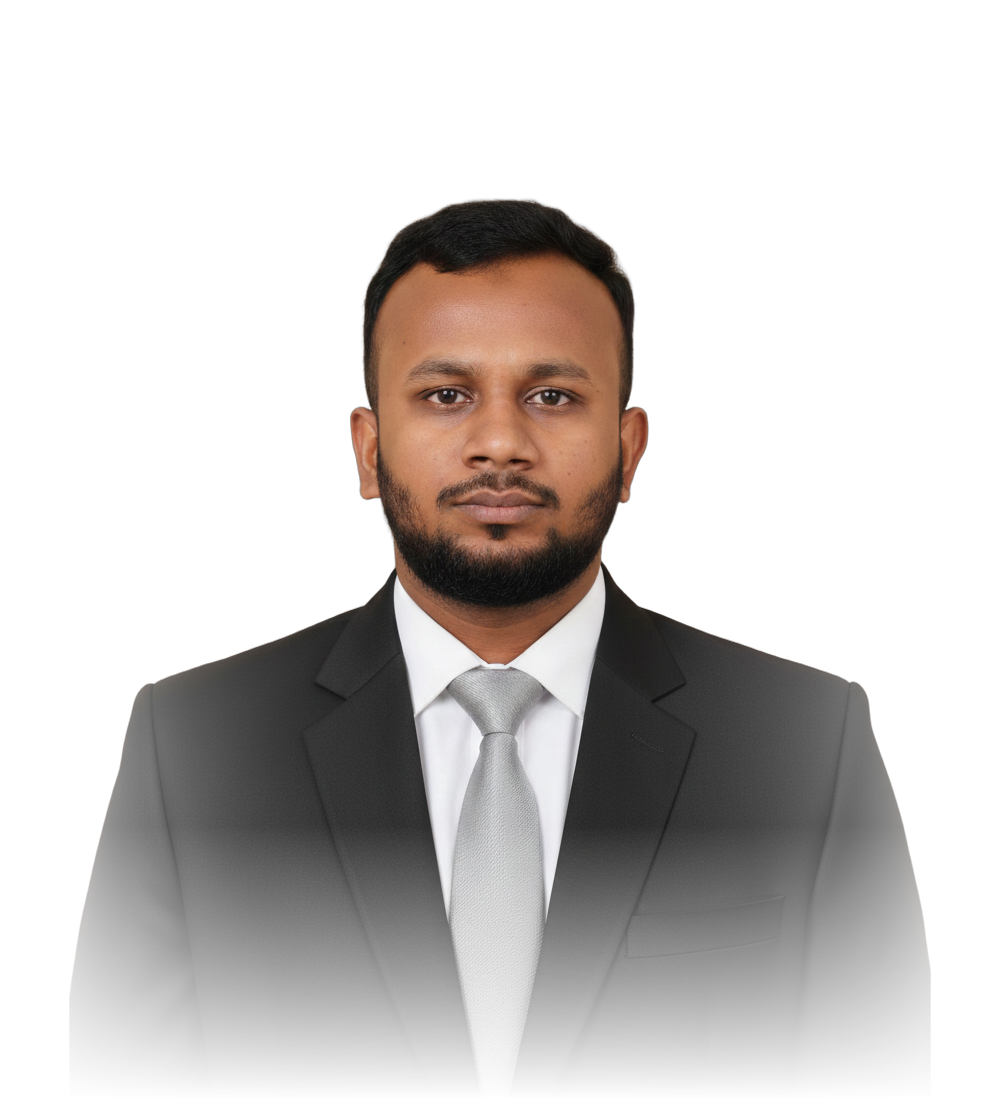
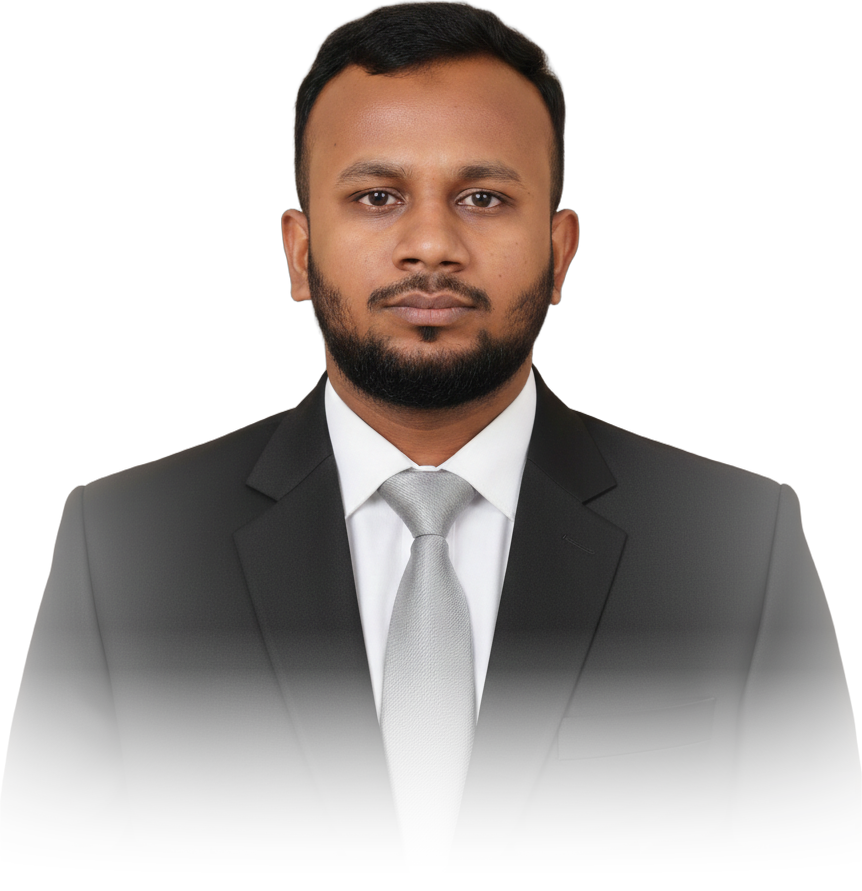
feat: make portrait large and free-standing without bounding boxes, perfect studio fade on dark background

diff --git a/frontend/src/components/Hero.jsx b/frontend/src/components/Hero.jsx
@@ -7,9 +7,6 @@ import {
     FaInstagram,
     FaArrowRight,
     FaDownload,
-    FaShieldAlt,
-    FaCode,
-    FaCheckCircle,
 } from 'react-icons/fa';
 import { getSection } from '../utils/portfolioData';
 import myImage from '../assets/mahabub.png';
@@ -25,30 +22,32 @@ const staggerContainer = {
 };
 
 const fadeUp = {
-    hidden: { opacity: 0, y: 22 },
+    hidden: { opacity: 0, y: 20 },
     show: { opacity: 1, y: 0, transition: { duration: 0.6, ease: [0.22, 1, 0.36, 1] } },
 };
 
 const scaleIn = {
-    hidden: { opacity: 0, scale: 0.95 },
+    hidden: { opacity: 0, scale: 0.94 },
     show: { opacity: 1, scale: 1, transition: { duration: 0.7, ease: [0.22, 1, 0.36, 1] } },
 };
 
 function Hero({ darkMode }) {
     const heroData = getSection('hero');
 
-    // 3D Parallax Tilt Effect for the Portrait
-    const cardRef = useRef(null);
+    // Subtle 3D Parallax Tilt for the Portrait
+    const containerRef = useRef(null);
     const mouseX = useMotionValue(0);
     const mouseY = useMotionValue(0);
 
-    const springConfig = { damping: 25, stiffness: 200 };
-    const rotateX = useSpring(useTransform(mouseY, [-0.5, 0.5], [8, -8]), springConfig);
-    const rotateY = useSpring(useTransform(mouseX, [-0.5, 0.5], [-8, 8]), springConfig);
+    const springConfig = { damping: 28, stiffness: 180 };
+    const rotateX = useSpring(useTransform(mouseY, [-0.5, 0.5], [6, -6]), springConfig);
+    const rotateY = useSpring(useTransform(mouseX, [-0.5, 0.5], [-6, 6]), springConfig);
+    const moveX = useSpring(useTransform(mouseX, [-0.5, 0.5], [-12, 12]), springConfig);
+    const moveY = useSpring(useTransform(mouseY, [-0.5, 0.5], [-12, 12]), springConfig);
 
     const handleMouseMove = (e) => {
-        if (!cardRef.current) return;
-        const rect = cardRef.current.getBoundingClientRect();
+        if (!containerRef.current) return;
+        const rect = containerRef.current.getBoundingClientRect();
         const width = rect.width;
         const height = rect.height;
         const x = (e.clientX - rect.left) / width - 0.5;
@@ -121,83 +120,57 @@ function Hero({ darkMode }) {
     return (
         <section
             id="home"
-            className="relative min-h-[92vh] lg:min-h-screen flex items-center pt-28 sm:pt-32 pb-16 sm:pb-24 px-4 sm:px-8 md:px-12 lg:px-16 overflow-hidden bg-transparent"
+            className="relative min-h-[94vh] lg:min-h-screen flex items-center pt-24 sm:pt-28 pb-12 sm:pb-20 px-4 sm:px-8 md:px-12 lg:px-16 overflow-hidden bg-transparent"
         >
-            {/* ── Soft Cinematic Ambient Lighting (Low-Key Luxury) ── */}
-            <div className="absolute top-[20%] left-[5%] w-[450px] h-[450px] rounded-full bg-rose-500/[0.03] blur-[150px] pointer-events-none" />
-            <div className="absolute bottom-[20%] right-[10%] w-[500px] h-[500px] rounded-full bg-slate-700/[0.04] blur-[160px] pointer-events-none" />
+            {/* ── Soft Ambient Studio Backlight ── */}
+            <div className="absolute top-[20%] left-[8%] w-[480px] h-[480px] rounded-full bg-rose-500/[0.035] blur-[140px] pointer-events-none" />
+            <div className="absolute bottom-[20%] right-[12%] w-[500px] h-[500px] rounded-full bg-slate-800/[0.04] blur-[150px] pointer-events-none" />
 
             {/* ── Main Container ── */}
             <div className="container mx-auto max-w-7xl relative z-10">
-                <div className="grid grid-cols-1 lg:grid-cols-12 gap-10 lg:gap-14 items-center">
+                <div className="grid grid-cols-1 lg:grid-cols-12 gap-8 lg:gap-12 items-center">
 
                     {/* ════════════════════════════════════════════
-                        LEFT COLUMN: Studio Portrait with 3D Depth
-                        (Matching the Matt Cannon Reference Layout)
+                        LEFT COLUMN: Large Free-Standing Studio Portrait
+                        (Seamless Cutout Standing Directly on Canvas)
                         ════════════════════════════════════════════ */}
                     <motion.div
                         variants={scaleIn}
                         initial="hidden"
                         animate="show"
-                        className="lg:col-span-6 flex justify-center lg:justify-start items-center"
+                        className="lg:col-span-6 flex justify-center items-end relative min-h-[440px] sm:min-h-[500px] lg:min-h-[580px]"
                     >
+                        {/* 3D Motion Container */}
                         <motion.div
-                            ref={cardRef}
+                            ref={containerRef}
                             onMouseMove={handleMouseMove}
                             onMouseLeave={handleMouseLeave}
                             style={{
                                 rotateX,
                                 rotateY,
+                                x: moveX,
+                                y: moveY,
                                 transformStyle: 'preserve-3d',
                             }}
-                            className="relative w-full max-w-[440px] sm:max-w-[480px] lg:max-w-[500px] group cursor-pointer"
+                            className="relative w-full max-w-[460px] sm:max-w-[500px] lg:max-w-[540px] flex justify-center items-end cursor-pointer"
                         >
-                            {/* Subtle Ambient Backlight Glow behind portrait */}
-                            <div className="absolute -inset-4 bg-gradient-to-tr from-rose-500/10 via-slate-700/15 to-transparent rounded-3xl blur-2xl opacity-60 group-hover:opacity-90 transition-opacity duration-700 pointer-events-none" />
+                            {/* Subtle Ambient Backlight Halo directly behind the head/shoulders */}
+                            <div className="absolute top-1/4 left-1/2 -translate-x-1/2 -translate-y-1/2 w-72 h-72 sm:w-84 sm:h-84 bg-gradient-to-tr from-rose-500/10 via-slate-600/10 to-transparent rounded-full blur-[90px] pointer-events-none" />
 
-                            {/* Portrait Frame Container */}
-                            <div className="relative rounded-2xl overflow-hidden bg-gradient-to-b from-[#0a0a0c] to-[#000000] border border-white/[0.06] group-hover:border-white/[0.12] transition-colors duration-500 shadow-2xl shadow-black/90">
-                                
-                                {/* Top corner luxury tag */}
-                                <div className="absolute top-4 left-4 z-20 flex items-center gap-2 px-3 py-1.5 rounded-full bg-black/60 backdrop-blur-md border border-white/10 text-[11px] font-mono tracking-wider text-slate-300">
-                                    <span className="w-1.5 h-1.5 rounded-full bg-rose-500 animate-ping" />
-                                    <span>MD MAHABUB</span>
-                                </div>
-
-                                {/* Studio Portrait (Seamless Low-Key Fade) */}
-                                <div className="relative w-full flex items-end justify-center pt-8 sm:pt-12">
-                                    <motion.img
-                                        src={myImage}
-                                        alt="MD Mahabubur Rahman"
-                                        className="w-full h-auto max-h-[480px] sm:max-h-[520px] lg:max-h-[560px] object-contain object-bottom filter contrast-[1.04] brightness-[1.0] select-none transition-transform duration-700 group-hover:scale-[1.02]"
-                                        initial={{ y: 25, opacity: 0 }}
-                                        animate={{ y: 0, opacity: 1 }}
-                                        transition={{ duration: 0.8, ease: "easeOut" }}
-                                    />
-                                    {/* Bottom soft vignette gradient overlay */}
-                                    <div className="absolute inset-x-0 bottom-0 h-28 bg-gradient-to-t from-[#000000] via-[#000000]/60 to-transparent pointer-events-none" />
-                                </div>
-
-                                {/* Floating 3D Badge on Portrait bottom right */}
-                                <div
-                                    style={{ transform: 'translateZ(30px)' }}
-                                    className="absolute bottom-4 right-4 z-20 flex items-center gap-2 px-3.5 py-2 rounded-xl bg-black/75 backdrop-blur-xl border border-white/10 shadow-xl"
-                                >
-                                    <div className="w-7 h-7 rounded-lg bg-rose-500/20 text-rose-400 flex items-center justify-center text-xs">
-                                        <FaShieldAlt />
-                                    </div>
-                                    <div className="text-left">
-                                        <p className="text-[10px] uppercase font-mono tracking-widest text-slate-400">Status</p>
-                                        <p className="text-xs font-bold text-white">Full-Stack & Security</p>
-                                    </div>
-                                </div>
-                            </div>
+                            {/* Large High-Contrast Portrait (Free-Standing, Zero Bounding Box) */}
+                            <motion.img
+                                src={myImage}
+                                alt="MD Mahabubur Rahman"
+                                className="relative z-10 w-full h-auto max-h-[520px] sm:max-h-[580px] lg:max-h-[640px] object-contain object-bottom filter contrast-[1.05] brightness-[1.0] select-none drop-shadow-[0_20px_50px_rgba(0,0,0,0.9)]"
+                                initial={{ y: 30, opacity: 0 }}
+                                animate={{ y: 0, opacity: 1 }}
+                                transition={{ duration: 0.8, ease: "easeOut" }}
+                            />
                         </motion.div>
                     </motion.div>
 
                     {/* ════════════════════════════════════════════
                         RIGHT COLUMN: High-Contrast Modern Editorial Copy
-                        (Matching the Template Typography & Style)
                         ════════════════════════════════════════════ */}
                     <motion.div
                         variants={staggerContainer}
@@ -220,7 +193,7 @@ function Hero({ darkMode }) {
                             </div>
                         </motion.div>
 
-                        {/* Main Editorial Headline — "I'm MD Mahabubur Rahman" */}
+                        {/* Main Editorial Headline */}
                         <motion.div variants={fadeUp} className="space-y-2">
                             <h1 className="text-4xl sm:text-5xl md:text-6xl lg:text-[4.2rem] font-bold tracking-tight text-white leading-[1.08]">
                                 I'm <span className="font-extrabold text-white">MD Mahabubur Rahman</span>
@@ -252,9 +225,9 @@ function Hero({ darkMode }) {
                             </p>
                         </motion.div>
 
-                        {/* ── Primary Coral/Crimson CTA Button ("Get in touch") ── */}
+                        {/* ── Action Buttons ── */}
                         <motion.div variants={fadeUp} className="flex flex-wrap gap-4 justify-center lg:justify-start items-center pt-2">
-                            {/* Primary Button: "Get in touch" (Matching Template Red/Coral Accent) */}
+                            {/* Primary Button: "Get in touch" */}
                             <motion.button
                                 whileHover={{ scale: 1.04, boxShadow: "0 0 30px rgba(244, 63, 94, 0.45)" }}
                                 whileTap={{ scale: 0.96 }}
